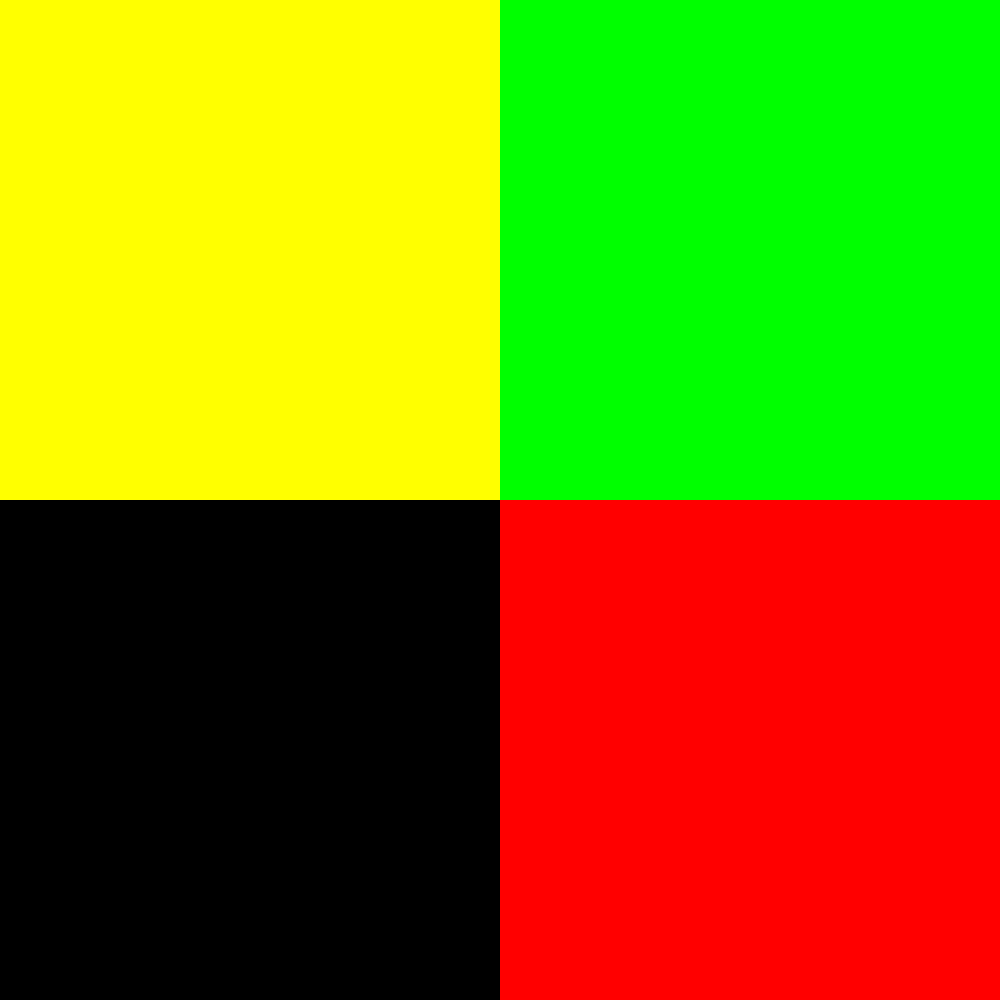
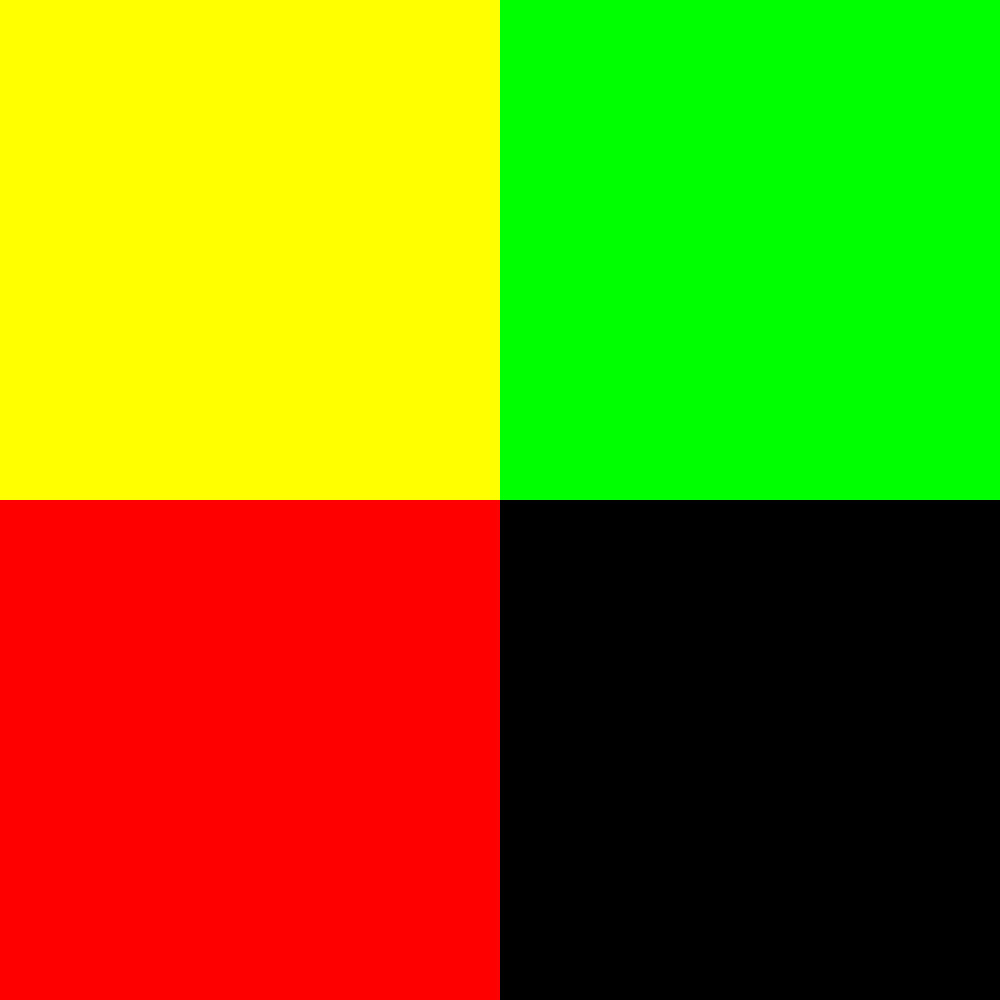
created 5th image

diff --git a/hw1/A.py b/hw1/A.py
@@ -68,8 +68,8 @@ Matrix = np.zeros( (height, width, 3), dtype=np.uint8) # also fill it with Zeros
 
 Matrix[0:height//2, 0:width//2] = [255, 255, 0]    # Upper left Yellow = R + G + 0
 Matrix[0:height//2, width//2:width] = [0, 255, 0]     #Upper Right Green = 0 + G + 0
-Matrix[height//2:height, width//2:width] = [255, 0, 0] # Lower Left Red = R + 0 + 0
-    # Lower Right is already Black
+Matrix[height//2:height, 0:width//2] = [255, 0, 0] # Lower Left Red = R + 0 + 0
+    # Lower Right is already Black, There is no need to change anything in Matrix
 
 #image
 imageio.imwrite("5_Quadrants.png", Matrix)
